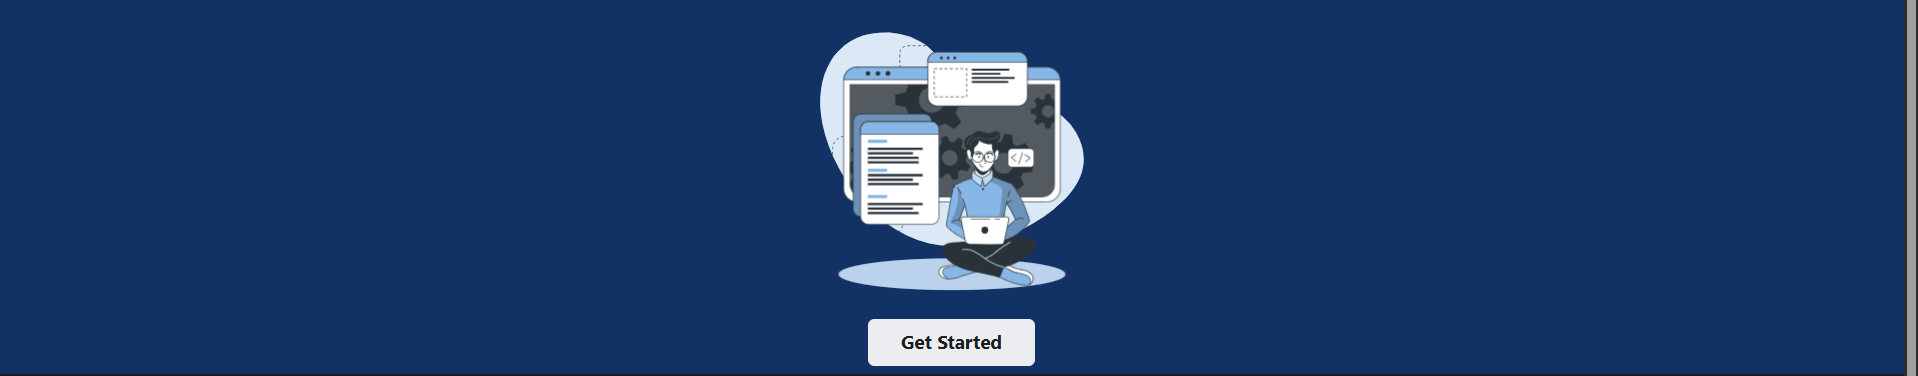
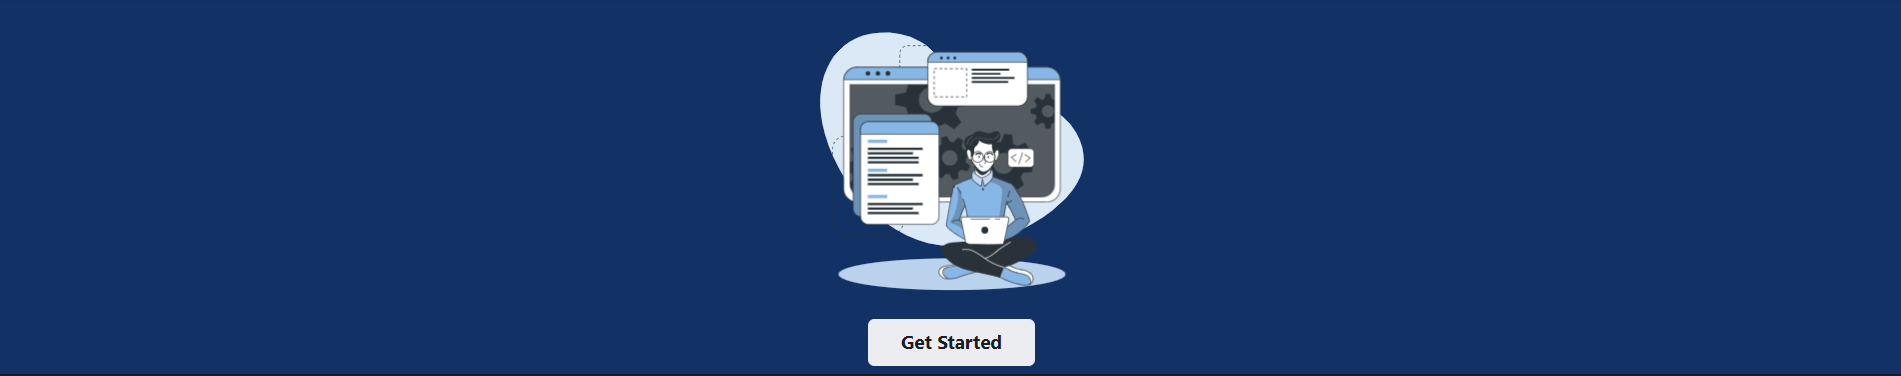
updated: README

Changed region(s): [[0.4035, 0.0878, 0.5897, 0.7606], [0.9932, 0.0, 1.0, 1.0], [0.4345, 0.8484, 0.5587, 0.9654]]

diff --git a/README.md b/README.md
@@ -14,7 +14,7 @@ A fresh Windows 11 install is not a blank slate. It ships Copilot, Xbox, inbox g
 This repo is that recipe, written down once and published as a static docs site. The docs are the product. Docusaurus is how they stay navigable.
 
 <p align="center">
-  <img src="./static/img/hero-sect.png" alt="DevSetup homepage hero" width="720" />
+  <img src="./static/img/hero-sect.png" alt="DevSetup homepage hero" width="920" />
 </p>
 
 ## What this is
